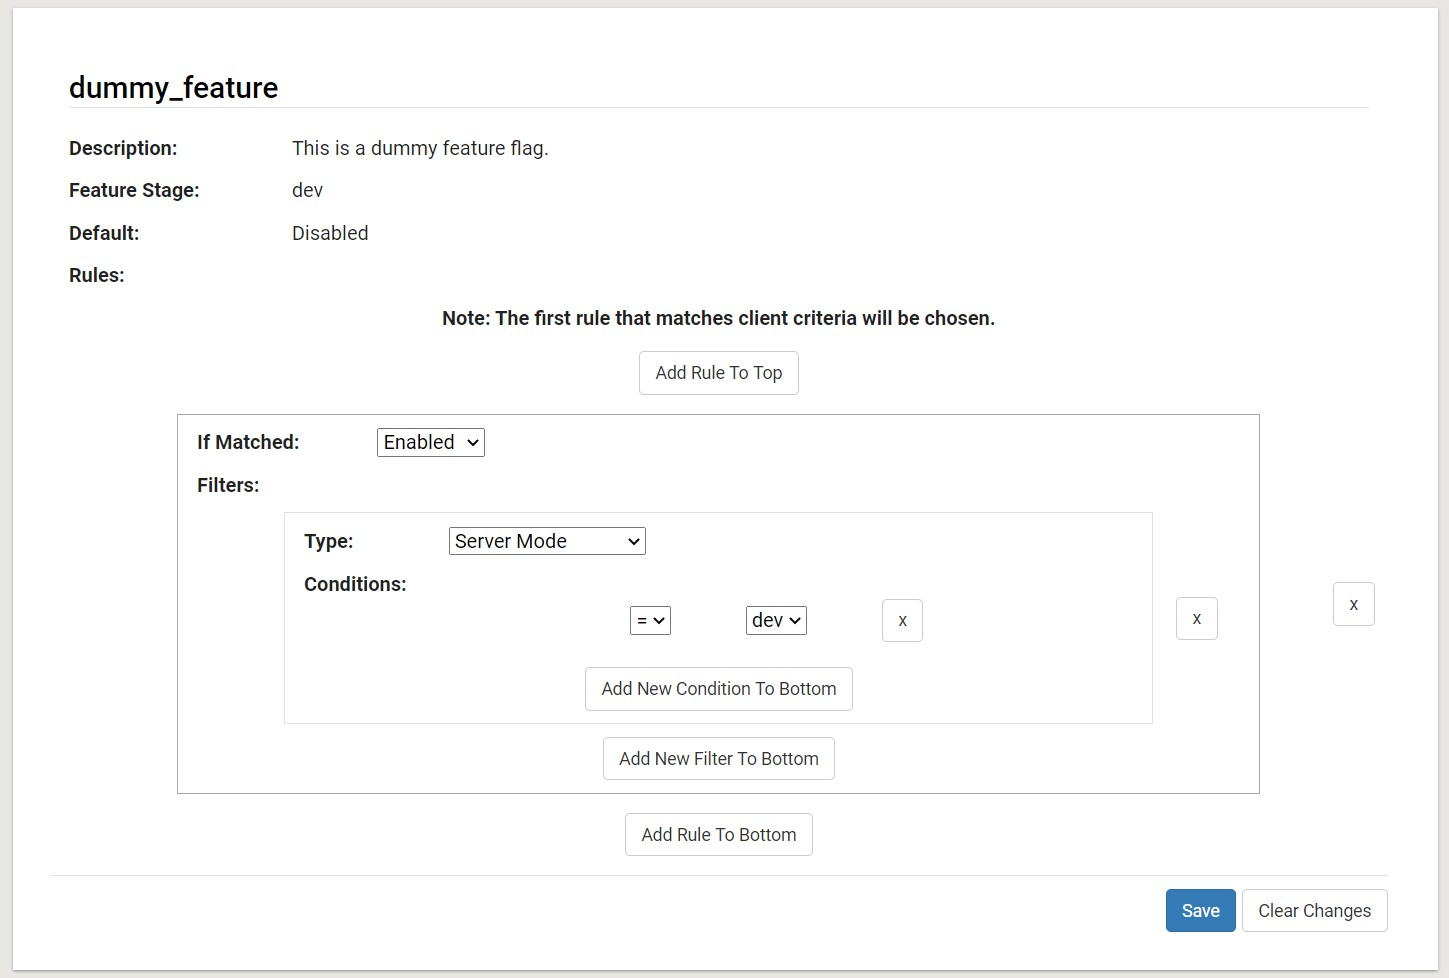
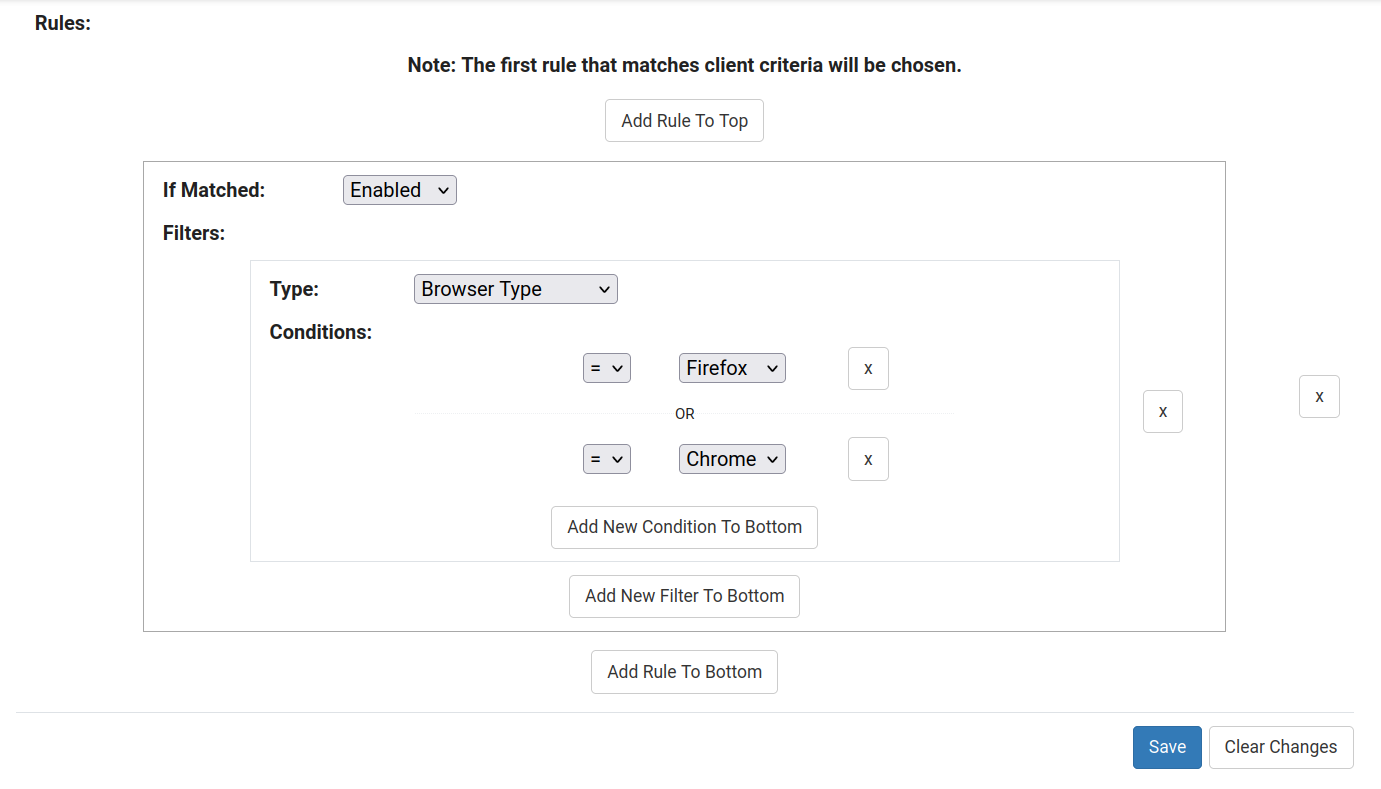
changes suggested by Ben and Sean

diff --git a/Developing-new-features-with-feature-gating.md b/Developing-new-features-with-feature-gating.md
@@ -202,7 +202,7 @@ We use the following principles to determine the value of a feature flags:
 - Each filter describes a scenario. There are multiple types of filters (like `server mode` and `client type`) which can be used in combination with each other to describe various scenarios (like `server mode = dev OR server mode = test`).
 - Each filter can have multiple conditions, and a filter is matched if any of the conditions specified in the rule are matched.
 
-For example, if we want a feature flag to be enabled only in dev environments, we can configure the flag's rules/filters as shown below.
+For example, if we want a feature flag to be enabled only on Chrome + Firefox, we can configure the flag's rules/filters as shown below.
 
 ![Example feature setting](images/adminPageFeatureFlagSettings.png)
 
@@ -212,11 +212,13 @@ Feature flags vastly improve/simplify the development process by allowing develo
 
 They allow us to hide features that are still in development/still being tested. This enables a developer to add a feature incrementally to the codebase, and only enable it when it is ready for production. Should the feature break, they also allow us to easily disable it without having to roll back all the changes. This is especially useful when the feature is large and/or complex.
 
+Additionally, they let us decouple the feature & binary releases. This allows us to release the server with less risk of regressions.
+
 ## How do you, as a developer, use feature flags?
 
 ### When to use feature flags?
 
-Feature flags should be used when you are working on a feature whose scale makes it hard to implement all at once, or for more experimental features that are likely to cause breakages. Essentially, feature flags are a must for features that are not ready for production/fully-tested yet.
+Feature flags should be used when you are working on a feature whose scale makes it hard to implement all at once, or for more experimental features that are likely to cause breakages. Essentially, feature flags are a must for features that are not yet ready for production/fully-tested at the time that they're merged into develop.
 
 ### How to use feature flags?
 
@@ -232,4 +234,8 @@ Say you are working on a large scale user-facing feature that will take multiple
 
 5. Once you receive a go-ahead from the feature testers, you must merge another PR -- this PR is meant to do only one thing, i.e. move the feature flag to the PROD stage, allowing it to be enabled/disabled in production (by the admin(s)). **NOTE: When opening this PR, include a link to the testing doc or other proof that the feature has been approved for release.**
 
-6. Once the feature is confirmed to be functioning as intended in production (for at least two weeks), you must merge one last PR to essentially "un-gate" the feature and move the feature flag to the deprecated stage (one of the stages listed in `core/domain/platform_parameter_list.py` for flags that are no longer in use). Then feel free to remove all references of the feature flag from the codebase (for example, in all the `if` blocks you created to gate the feature).
+6. Once this PR is merged, send a request to the release coordinators to turn on the feature in production by adding a rule in the `/admin` page.
+
+7. Once the feature is confirmed to be functioning as intended in production (for at least two weeks), please do the following, in order:
+    - Make sure that the feature is indeed functioning as intended, and ready to be made permanent. To do this, confirm with the PMs that no users have reported issues with it, and that no regressions have been detected via StackDriver and other usage metrics.
+    - Once you have confirmation that the feature can be made permanent, merge one last PR to "un-gate" the feature and move the feature flag to the deprecated stage (one of the stages listed in `core/domain/platform_parameter_list.py` for flags that are no longer in use). Additionally, in this PR, please remove all remaining references to the feature flag from the codebase (for example, in all the `if` blocks you created to gate the feature).
